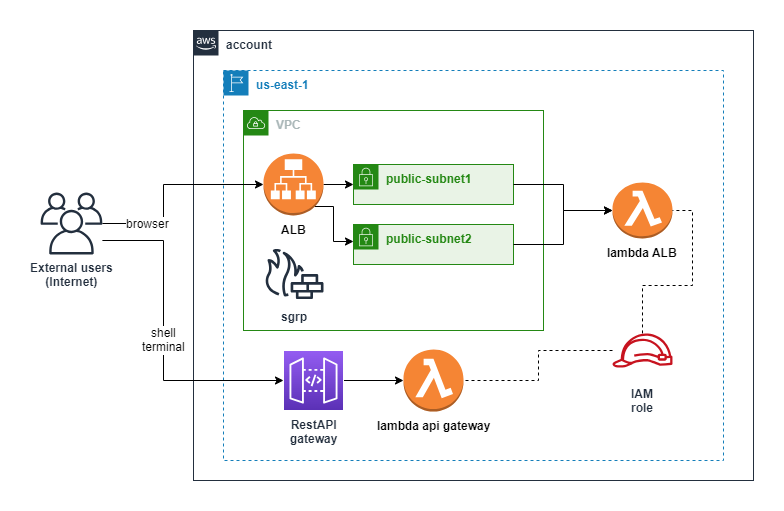
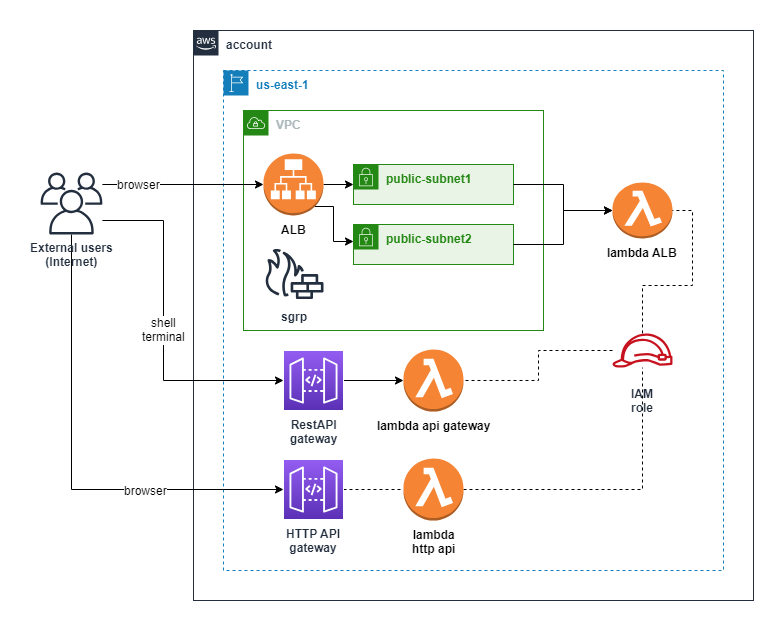
adding HTTP api gateway

diff --git a/cloudformation/lambda-apigw-alb/README.md b/cloudformation/lambda-apigw-alb/README.md
@@ -1,8 +1,8 @@
 ##################################################################################################
-# AWS Architecture with Application Load Balancer and API Gateway integrated with Lambda functions
+# AWS Serverless Architecture with Application Load Balancer and API Gateway integrations with Lambda functions
 ##################################################################################################
 
-This CloudFormation template creates an AWS architecture with two Lambda functions, one integrated with an API Gateway and other integrated with Application Load Balancer (ALB).
+This CloudFormation template creates an AWS architecture for three Serverless scenarios using Lambda functions, API Gateway and Application Load Balancer.
 
 
 ![Alt text](../diagrams/lambda-apigw-alb.png?raw=true "Diagram Image")
@@ -14,9 +14,9 @@ The CloudFormation template creates the following resources:
 - Application Load Balancer (ALB): The load balancer that receives incoming traffic from clients.
 - ALB Listener: The listener that forwards traffic from the ALB to the target group.
 - ALB Target Group: The target group that the ALB forwards traffic to, which is a Lambda function.
-- API Gateway: The API Gateway that serves as the entry point for the application's API.
+- API Gateway: Two API Gateways (Rest and HTTP) that serve as the entry point for the application's API.
 - API Gateway Method: The method configured on the API Gateway to integrate with the Lambda function.
-- Lambda Function: A sample Lambda function that will be executed when the API Gateway receives a request.
+- Lambda Functions: Three sample Lambda functions that will be executed when the API Gateway or ALB receives a request.
 - Lambda Role: The IAM role associated with the Lambda function, granting it the necessary permissions to execute.
 - API Gateway Deployment: The deployment of the API Gateway to the 'prod' stage.
 - ALB Security Group: The security group for the Application Load Balancer, allowing inbound traffic on port 80.
@@ -67,18 +67,31 @@ rain deploy lambda-apigw-alb.yaml --tags tag1=value1,tag2=value2
 
 To test the deployed architecture, follow these steps:
 
-**API GAteway:**
+**Rest API Gateway:**
 
 Don´t use web browser (it will return error message "{"message":"Missing Authentication Token"}")
 
 - In the AWS Management Console, navigate to the CloudFormation service, select the created stack, "Outputs" section and copy the Invoke URL for the "call" stage.
-- Open a Linux Shell terminal and use a tool like Postman or cURL to send a request to the API Gateway endpoint.
+- Open a Linux Shell terminal and use a tool like Postman or cURL to send a request to the Rest API Gateway endpoint.
 
 ```bash
 curl --request POST https://rnk0lfld0b.execute-api.us-east-1.amazonaws.com/call
 {"statusCode": 200, "body": "\"Hello from Lambda with API Gateway!\""}
 ```
 - Verify that you receive a successful response (HTTP status code 200) with the message "Hello from Lambda wity API Gateway!".
+
+**HTTP Api Gateway:**
+
+You can use web browser.
+
+- In the AWS Management Console, navigate to the CloudFormation service, select the created stack, "Outputs" section and copy the DNS name of the HTTP API Gateway.
+- Use a web browser or a tool like cURL to send a request to the HTTP API Gateway endpoint.
+
+```bash
+https://xyzabc123z4.execute-api.us-east-1.amazonaws.com
+```
+
+- Verify that the request is forwarded to the Lambda function and you receive a response "Hello from Lambda using HTTP API Gateway!".
 
 **ALB:**
 
@@ -104,7 +117,7 @@ rain rm lambda-apigw-alb
 
 # Troubleshooting
 
-* Cannot open up the ALB URL: Verify your IP address is correct in the Security Group rule.
+* Cannot open up the ALB URL: Verify your IP address is configured correctly in the Security Group Ingress rule.
 
 * Error {"message":"Missing Authentication Token"}: You are testing API Gateway using web browser, use a Linux terminal with CURL instead.
 
